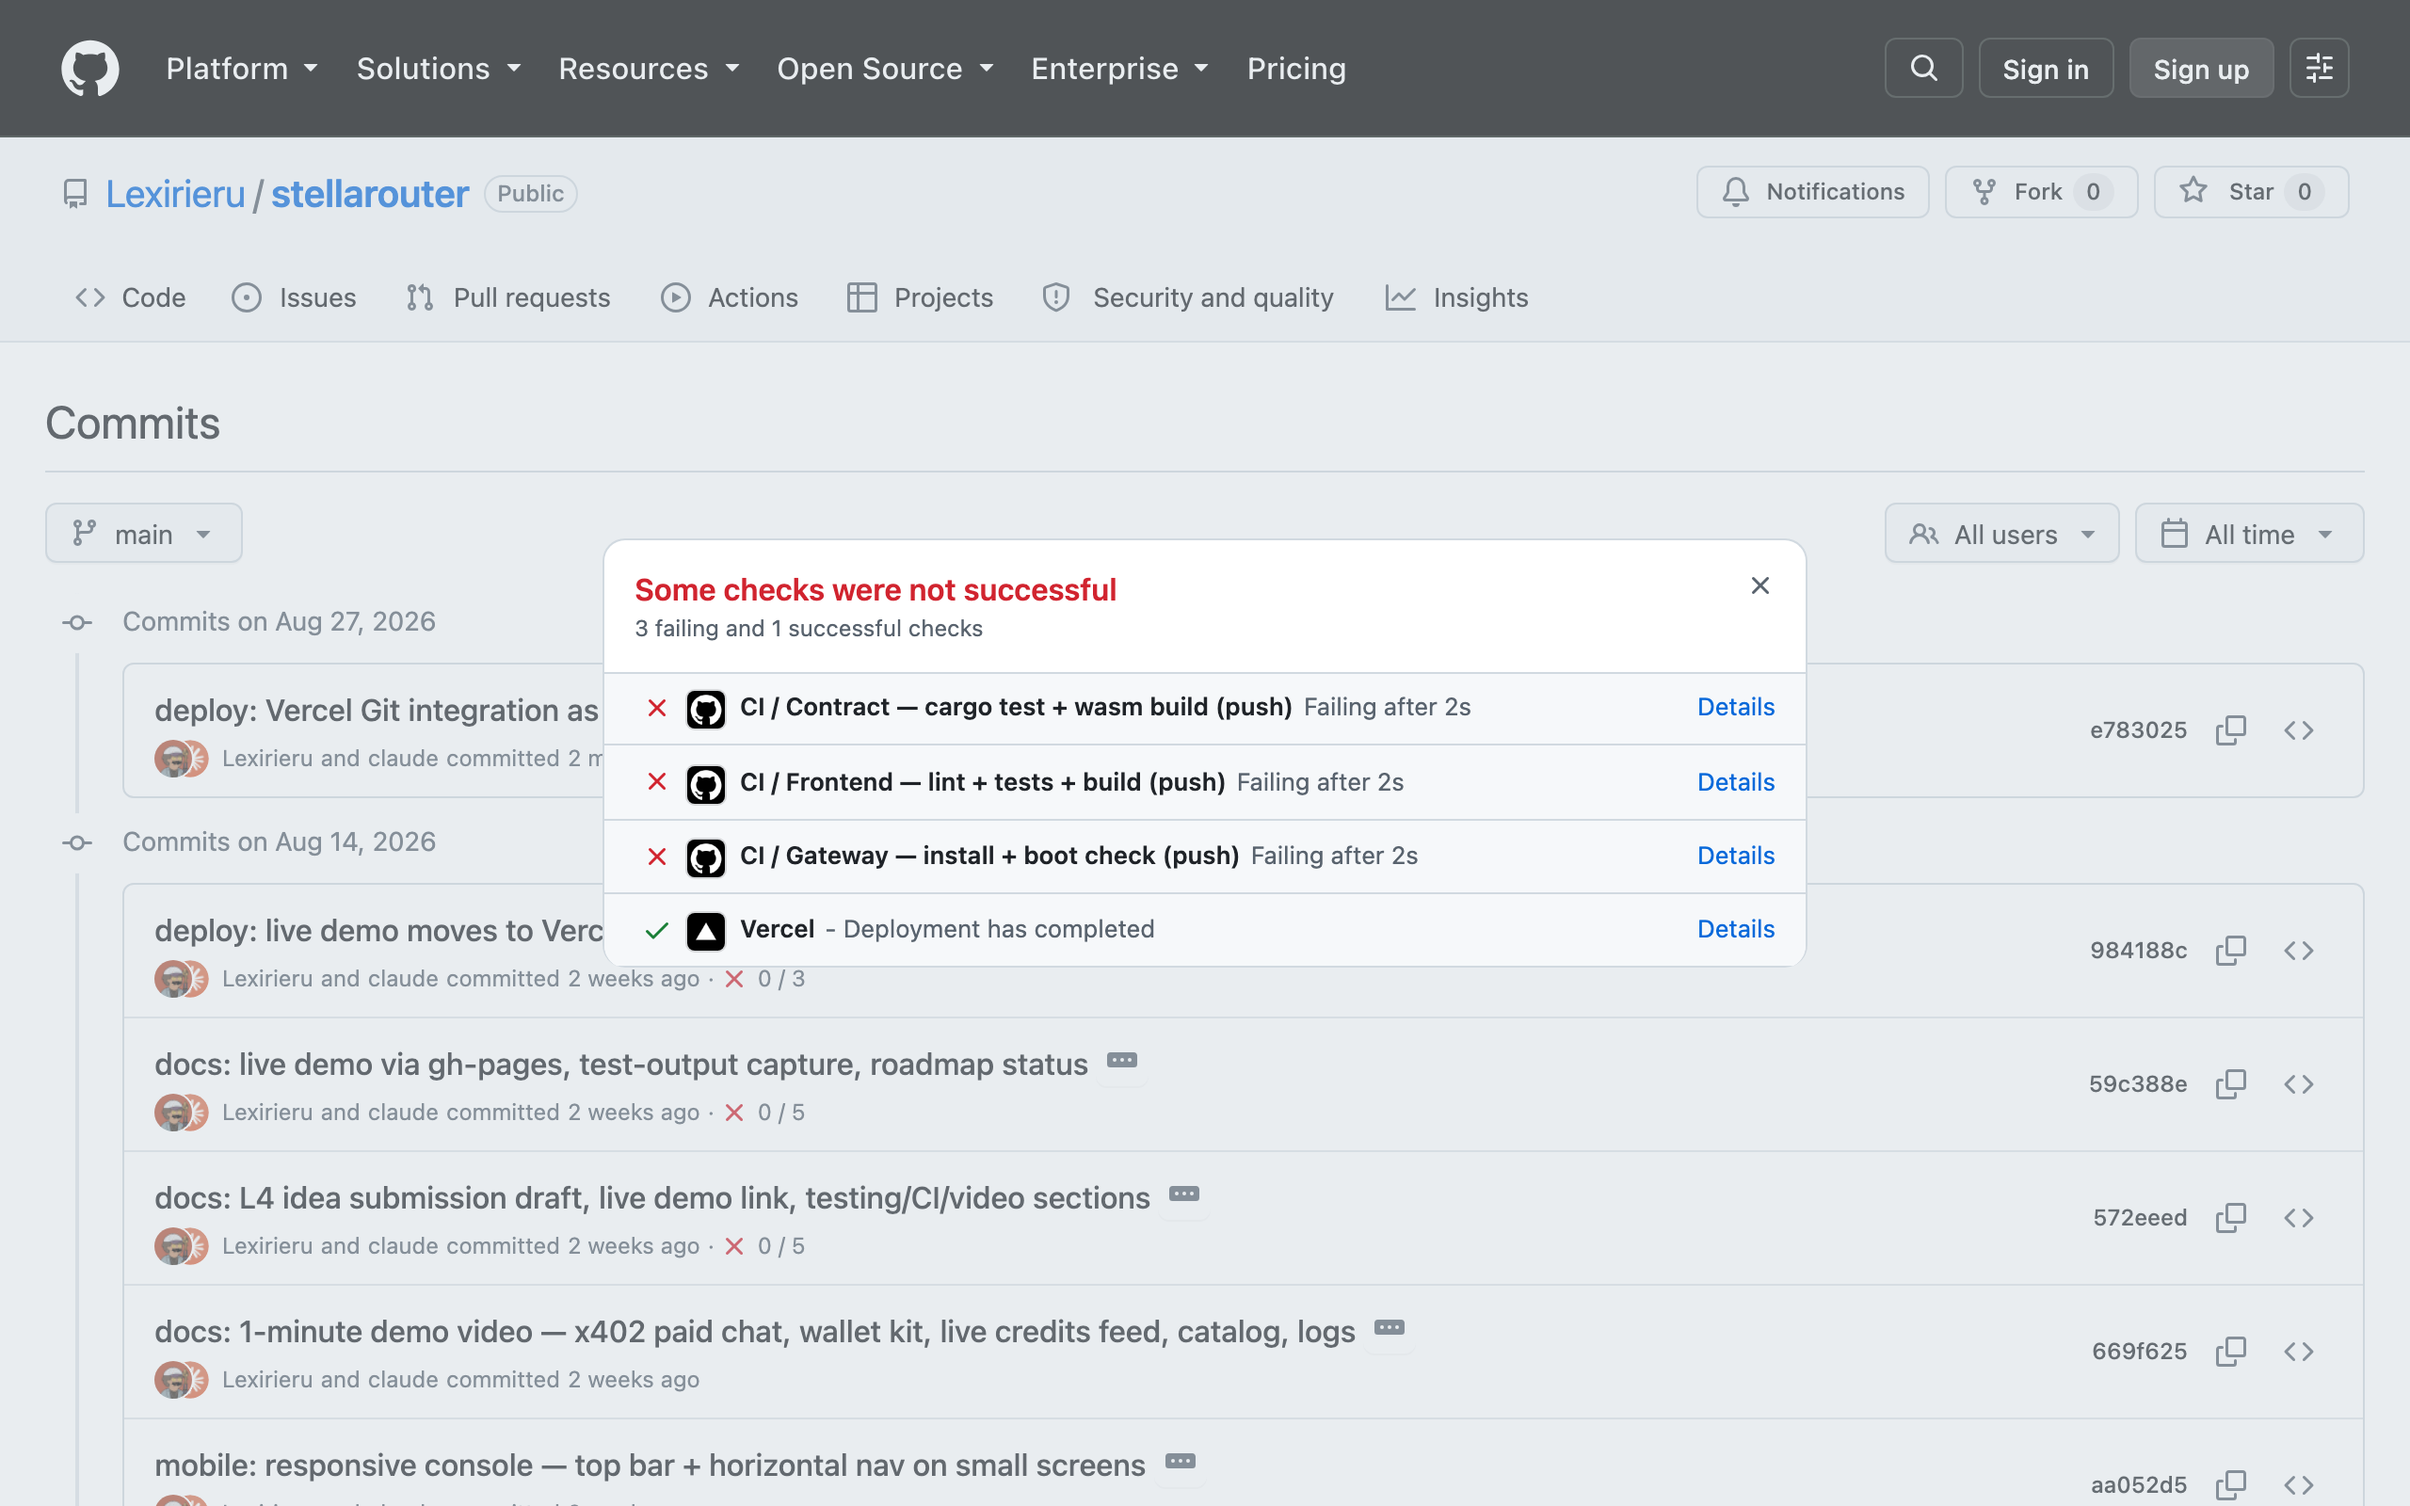
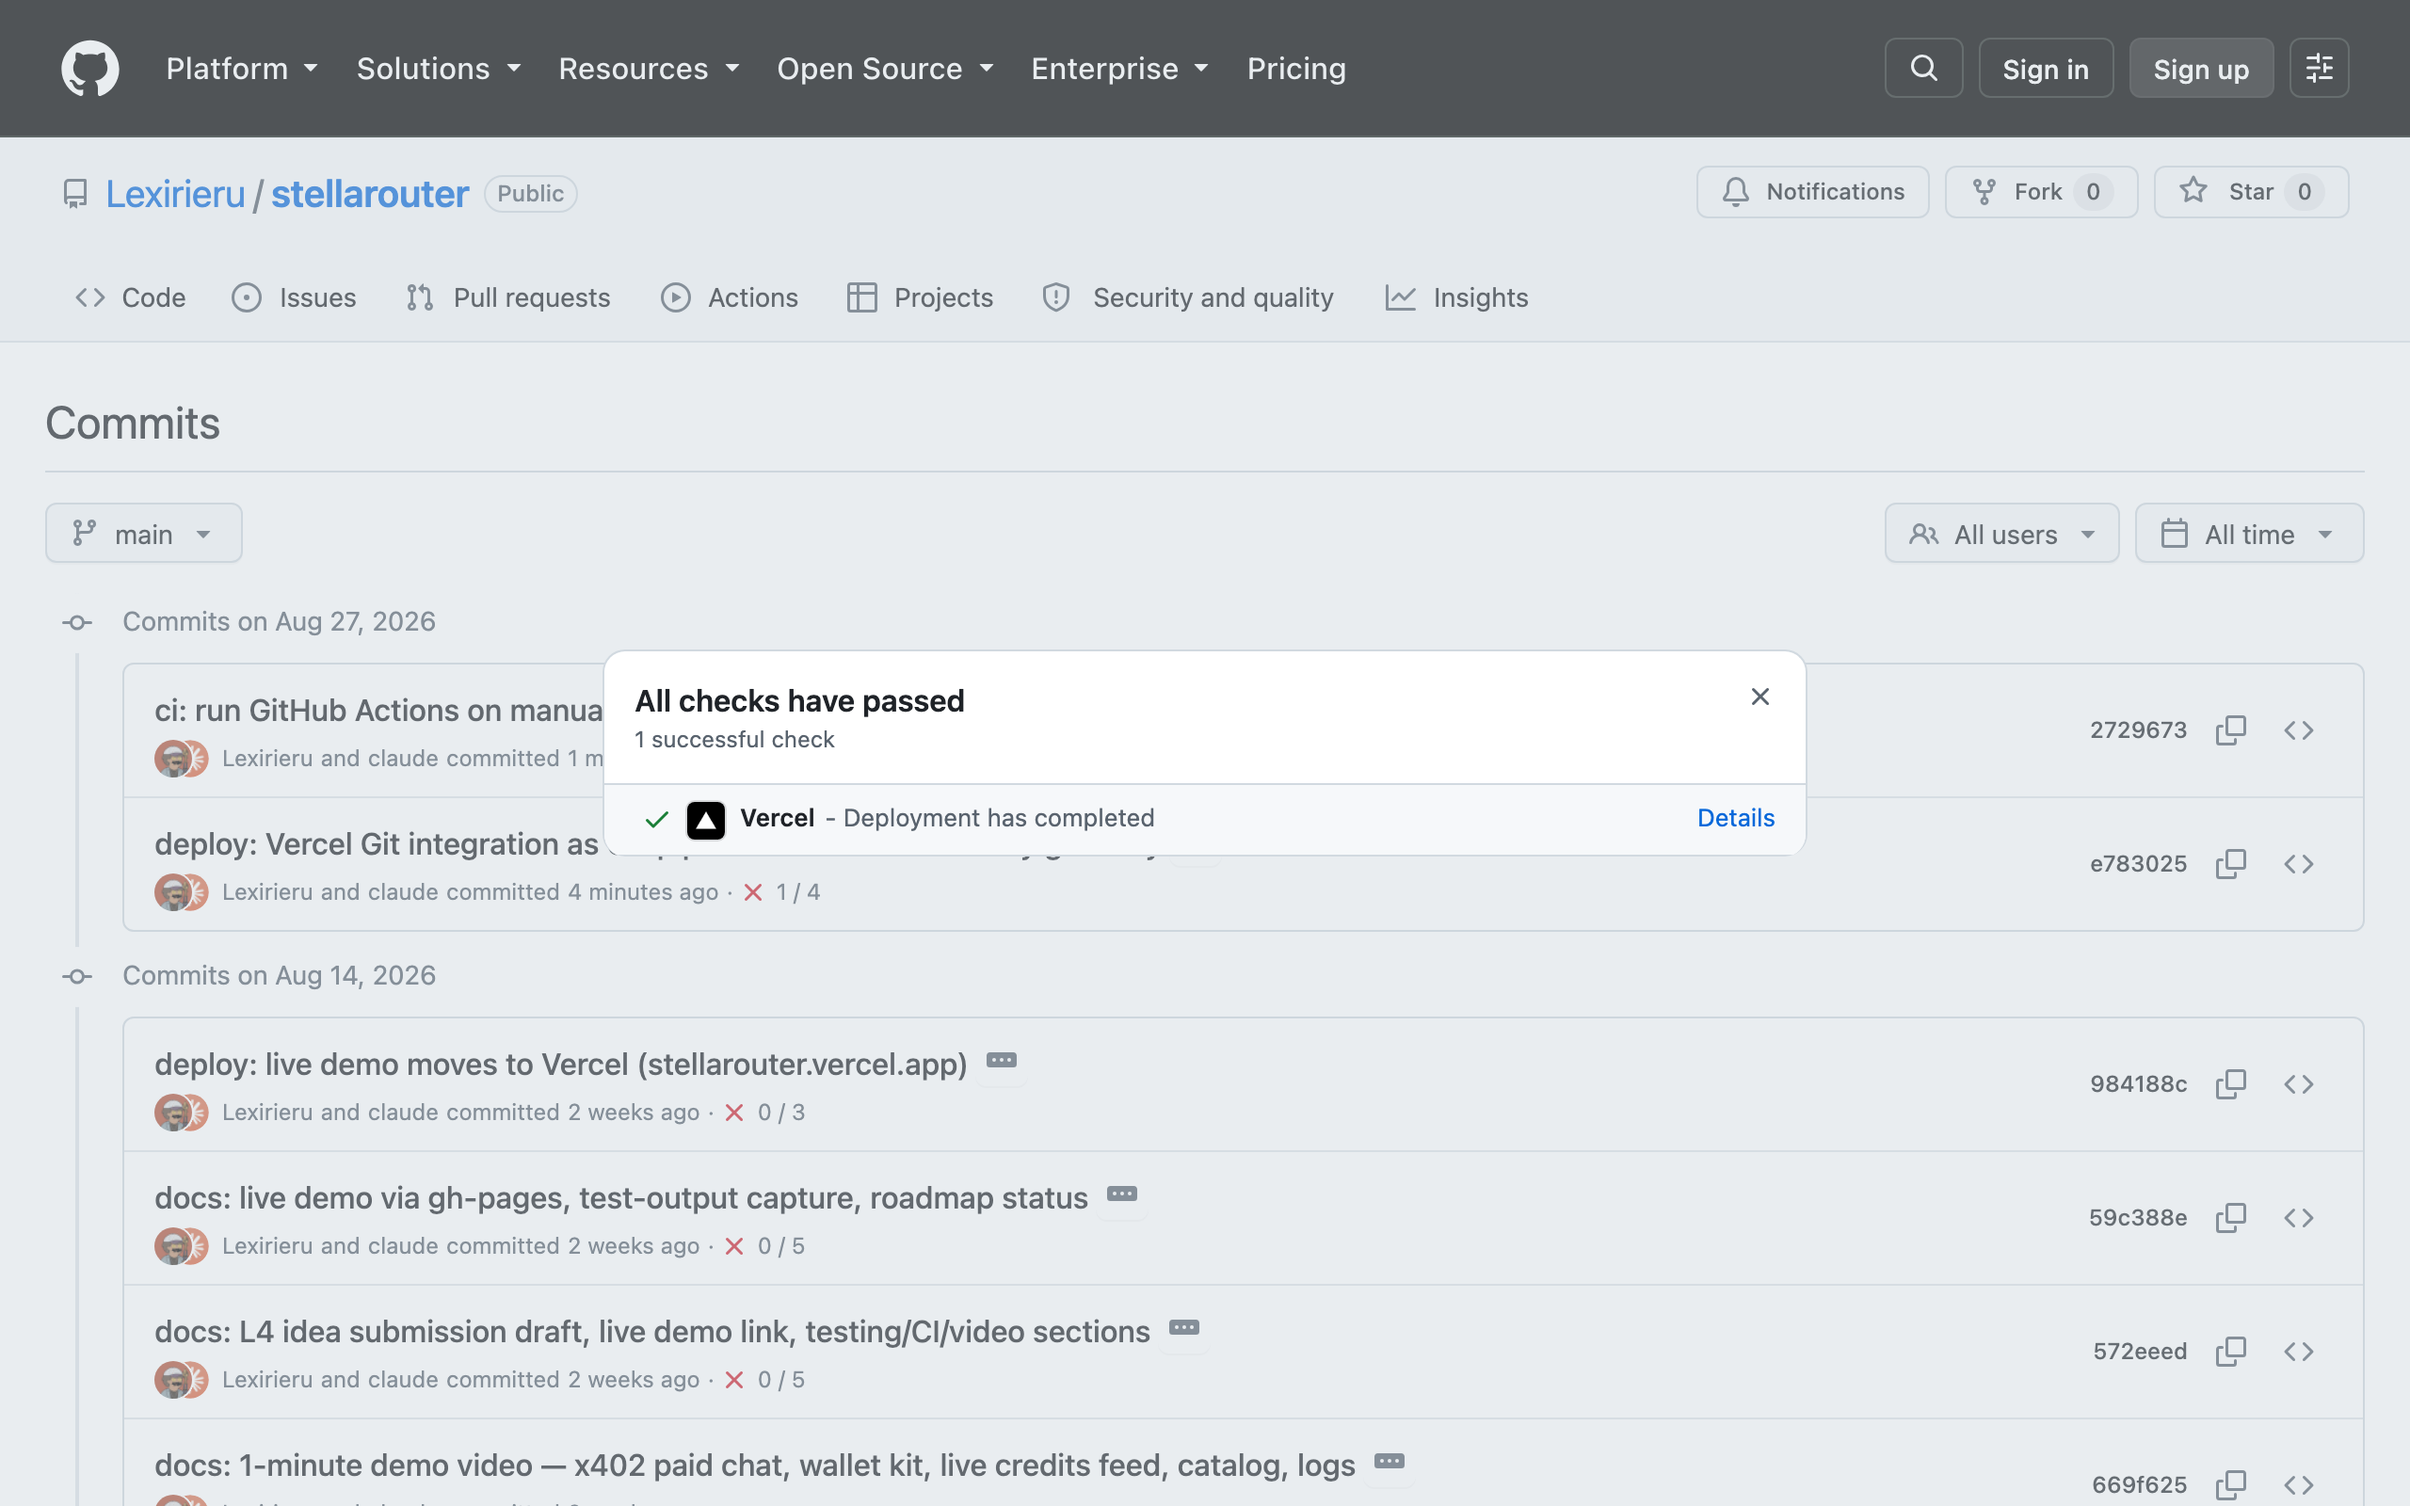
docs: CI/CD pipeline screenshots (Vercel Git integration) + roadmap status

diff --git a/README.md b/README.md
@@ -148,7 +148,8 @@ Every failure in the console is classified and shown with a category chip:
   taxonomy (incl. `Error(Contract, #N)` parsing and wallet-kit error
   normalization), and `getEvents` topic parsing against real `ScVal`s.
 - **CI** ([ci.yml](.github/workflows/ci.yml)): contract tests + wasm build,
-  frontend lint/test/build, gateway boot check — on every push.
+  frontend lint/test/build, gateway boot check (currently on manual dispatch —
+  see the note at the top of the workflow).
 - **CD** (Vercel Git integration): every push to `main` builds the console from
   `frontend/` and promotes it to <https://stellarouter.vercel.app>; the build
   status is reported back on each commit in GitHub.
@@ -172,6 +173,8 @@ feed, the 500+ model catalog, and usage logs.
 | Playground (agent x402 / human prepaid) | ![playground](docs/screenshots/playground.png) |
 | Mobile (390px) | ![mobile playground](docs/screenshots/mobile-playground.png) ![mobile credits](docs/screenshots/mobile-credits.png) |
 | Tests — 9 contract + 16 frontend, all passing | ![tests](docs/screenshots/tests-passing.png) |
+| CI/CD — push to `main` → Vercel build + deploy, status reported on the commit | ![ci pipeline](docs/screenshots/ci-pipeline.png) |
+| CI/CD — Vercel build log for that commit (clone → `bun install` → `next build` → deploy) | ![ci build log](docs/screenshots/ci-build-log.png) |
 
 > Regenerate: run the app, connect a wallet, and capture — see
 > [docs/screenshots/README.md](docs/screenshots/README.md).

diff --git a/docs/ROADMAP.md b/docs/ROADMAP.md
@@ -34,7 +34,8 @@ disiapkan sekarang supaya begitu unlock tinggal submit).
 - [x] CI/CD GitHub Actions: `ci.yml` (cargo test + wasm + lint/test/build frontend + boot check gateway) + `deploy-contract.yml` (deploy testnet sekali-klik)
 - [x] Deploy live frontend → **Vercel** (static export): https://stellarouter.vercel.app (GitHub Pages dimatikan atas permintaan)
 - [ ] Host gateway (Railway free plan penuh — butuh keputusan user: upgrade Railway / `fly auth login` / Render)
-- [ ] Screenshot CI hijau — **terblokir billing lock GitHub Actions** ("account is locked due to a billing issue"): buka github.com/settings/billing, selesaikan, lalu `gh run rerun --repo Lexirieru/stellarouter <run-id>`
+- [x] Screenshot CI/CD running — via **Vercel Git integration** (push → build → deploy, status ✓ di commit GitHub): `ci-pipeline.png` + `ci-build-log.png`
+- [ ] GitHub Actions masih terkunci billing → `ci.yml` sementara `workflow_dispatch`; setelah billing beres: kembalikan trigger `push`/`pull_request` dan jalankan
 - [x] Test frontend: 16 unit test bun (errors, stroops, parseEvent) + 9 test kontrak
 - [x] Mobile responsive (top bar + nav scroll) + screenshot 390px
 - [x] Demo video 1:05 — `docs/demo/stellarouter-demo.mp4`

diff --git a/docs/screenshots/README.md b/docs/screenshots/README.md
@@ -15,5 +15,6 @@ File Level 3 (sudah tergenerate otomatis via Playwright):
 | File | Isi |
 |---|---|
 | `mobile-playground.png` / `mobile-credits.png` | UI mobile 390×844 (checklist "mobile responsive UI") |
-| `ci-pipeline.png` | Halaman GitHub Actions dengan pipeline hijau (di-capture setelah push) |
+| `ci-pipeline.png` | Halaman commits GitHub: popover status commit ✓ "Vercel — Deployment has completed" (CD via Git integration) |
+| `ci-build-log.png` | Build log Vercel untuk commit tersebut (`vercel inspect <url> --logs`) |
 
